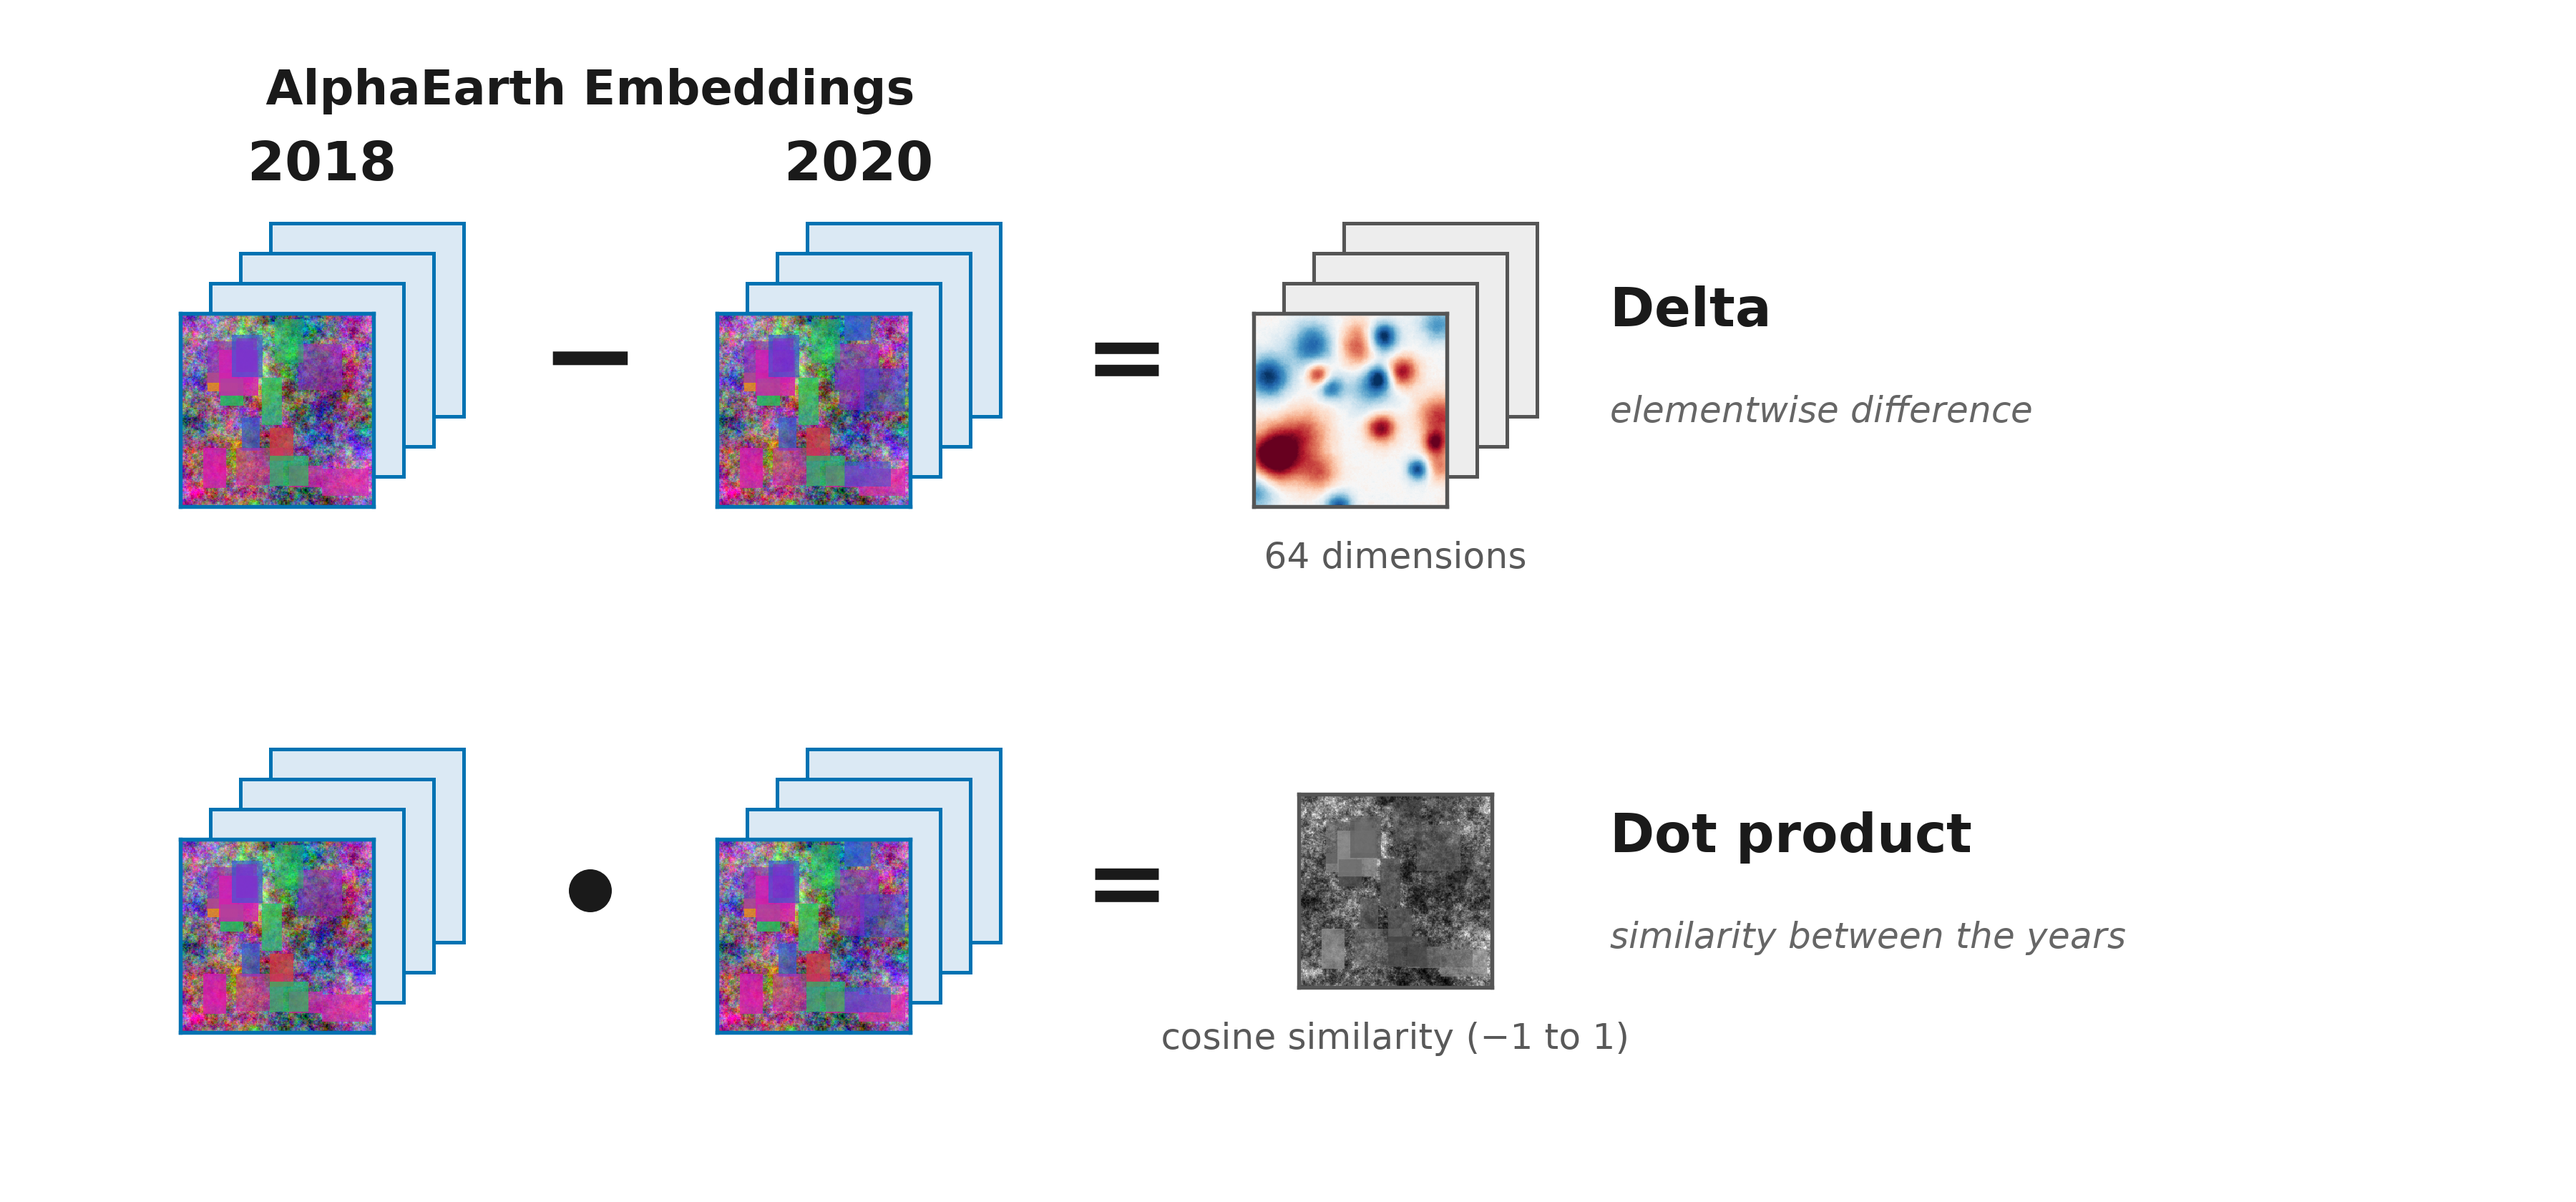
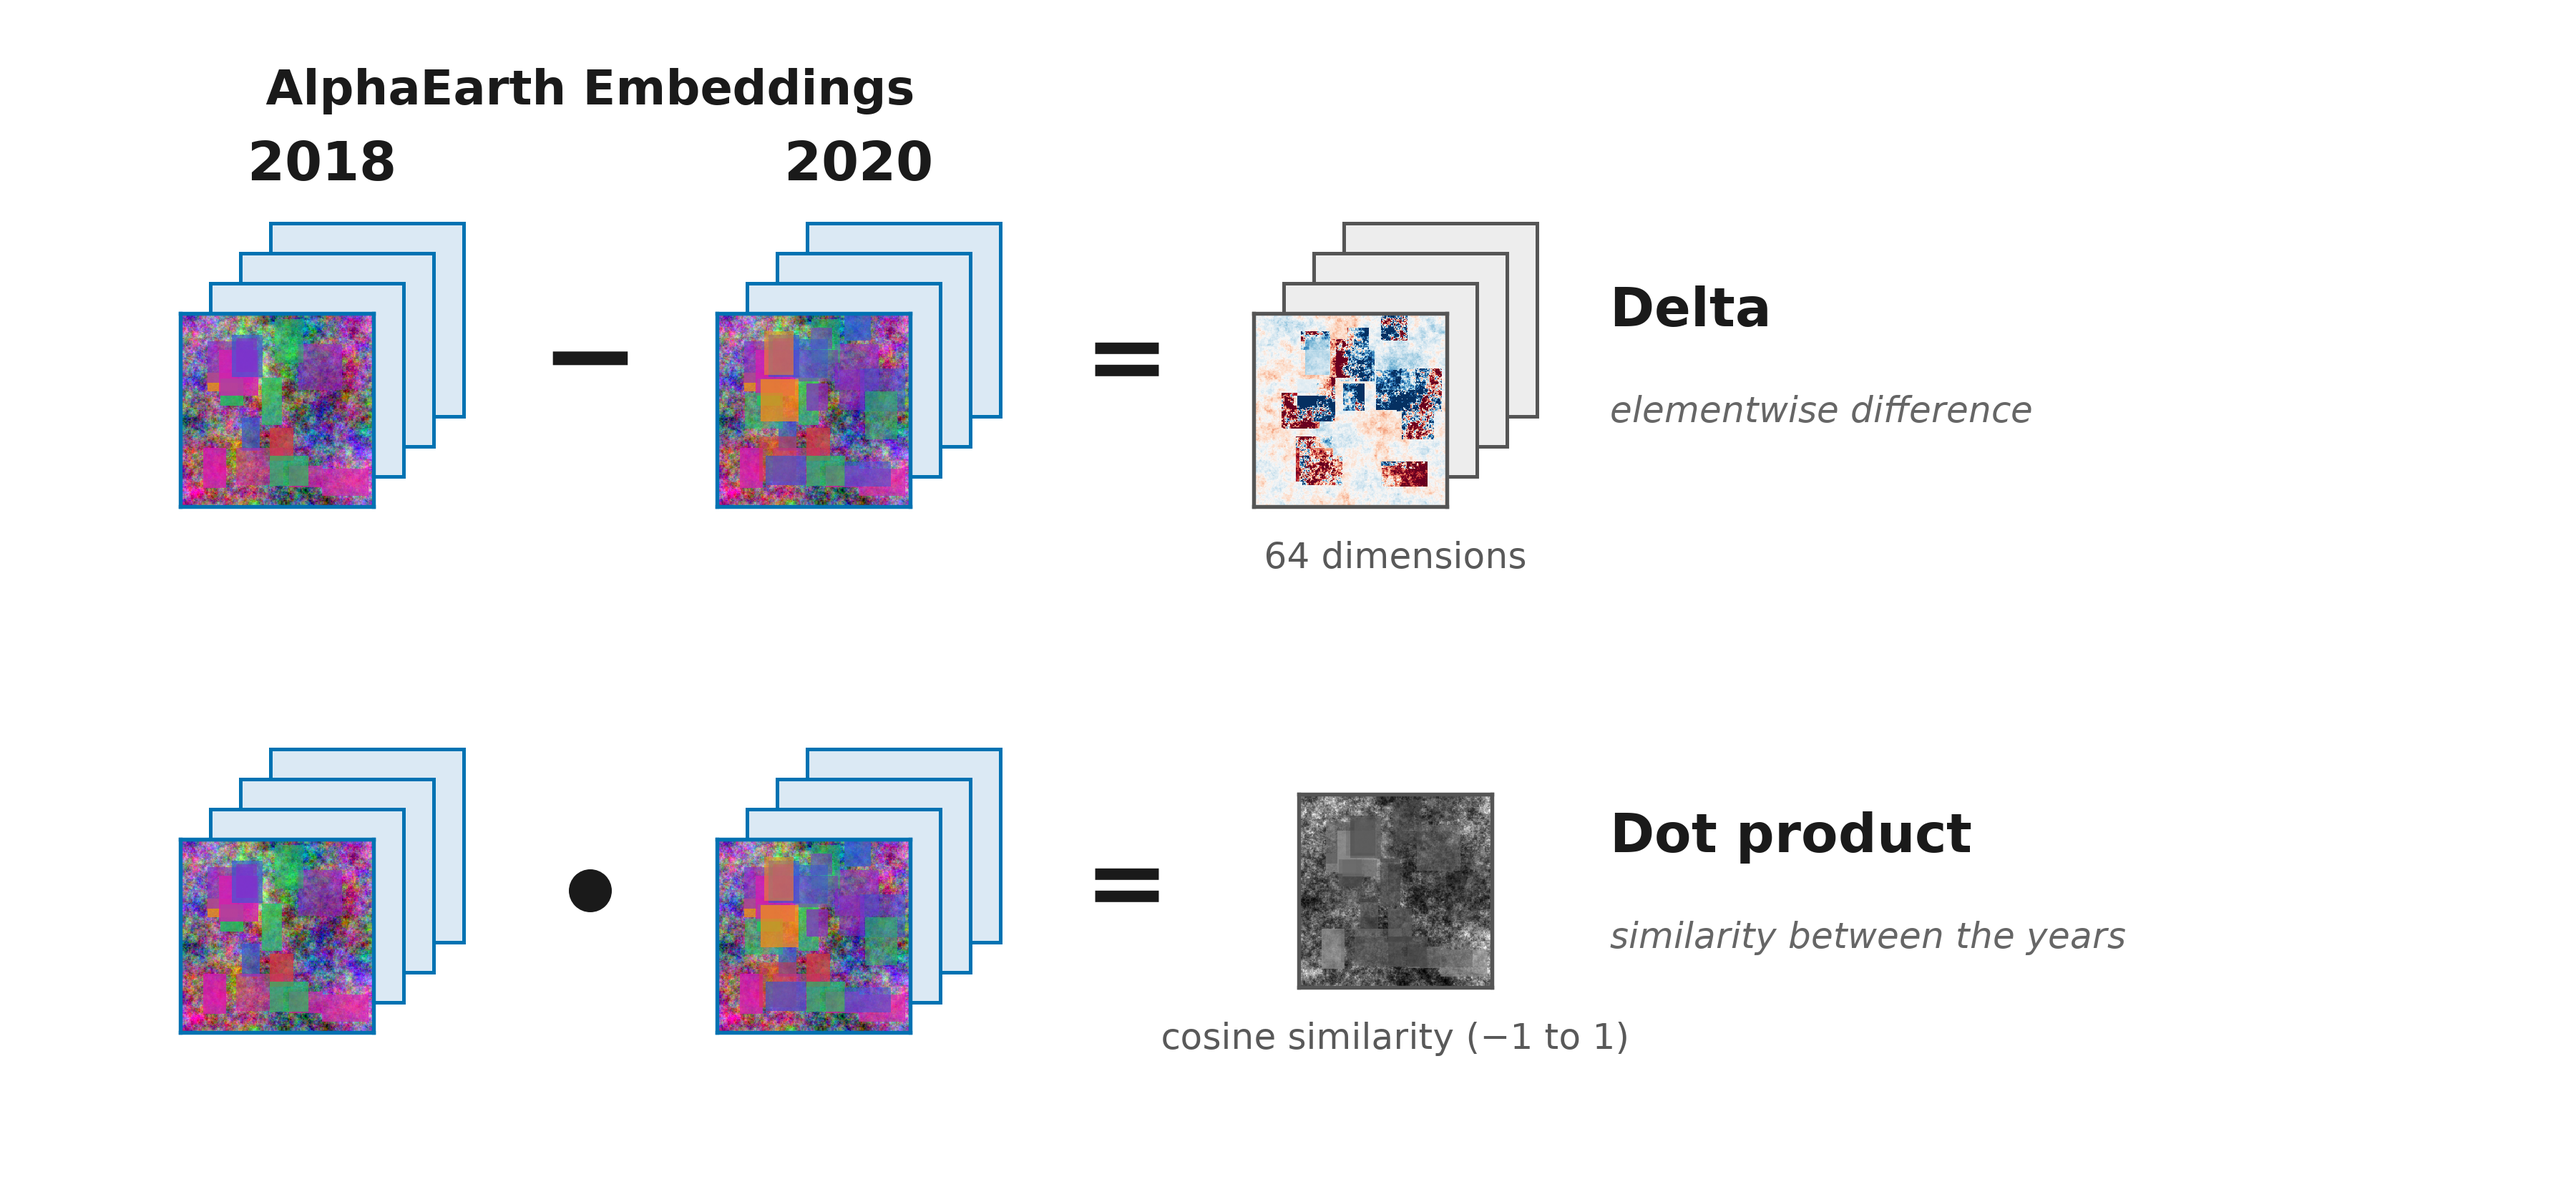
pres_15 v4: delta back to natural difference with more change areas
Revert to the original emb2020 - emb2018 delta (pale background, change blocks) and
add more changed parcels so more areas of change show as red/blue.

Changed region(s): [[0.4667, 0.2476, 0.56, 0.4333], [0.28, 0.7119, 0.3733, 0.8357], [0.28, 0.2786, 0.3733, 0.4024]]

diff --git a/presentation/scripts/pres_15_embedding_ops_version_4.py b/presentation/scripts/pres_15_embedding_ops_version_4.py
@@ -73,18 +73,12 @@ def _textures():
 
     e18 = emb()
     parcels(e18, 16)
-    e20 = np.clip(e18 + 0.06 * (np.stack([fnoise(2.2) for _ in range(3)], -1) - 0.5) * 2, 0, 1)
-    parcels(e20, 4)                                                # a few changed parcels
+    e20 = np.clip(e18 + 0.05 * (np.stack([fnoise(2.4) for _ in range(3)], -1) - 0.5) * 2, 0, 1)
+    parcels(e20, 14)                                               # more changed parcels -> more areas of change
 
-    # delta: pale, lightly textured background with many small soft patches, like the example delta asset
-    xx, yy = np.meshgrid(np.arange(N), np.arange(N))
-    d = 0.10 * (fnoise(2.4) - 0.5) + 0.07 * (fnoise(1.4) - 0.5)     # pale, faintly textured background
-    for _ in range(22):                                            # many small soft diverging patches
-        cx, cy, rr = int(rng.integers(N)), int(rng.integers(N)), float(rng.integers(N // 22, N // 10))
-        d += rng.choice([-1.0, 1.0]) * float(rng.uniform(0.3, 0.6)) \
-            * np.exp(-((xx - cx) ** 2 + (yy - cy) ** 2) / (2.0 * rr ** 2))
+    d = (e20 - e18).mean(axis=2)                                    # signed per-pixel delta (~0 except at changes)
     dot = (e18 * e20).sum(axis=2) / 3.0                            # per-pixel similarity, grayscale
-    m = 0.6
+    m = float(np.percentile(np.abs(d), 90)) or 1.0                  # changed blocks show red/blue, rest stays pale
     delta_rgba = ScalarMappable(norm=TwoSlopeNorm(vcenter=0.0, vmin=-m, vmax=m),
                                 cmap=plt.get_cmap("RdBu")).to_rgba(d)
     dot_rgba = ScalarMappable(norm=Normalize(dot.min(), dot.max()),
